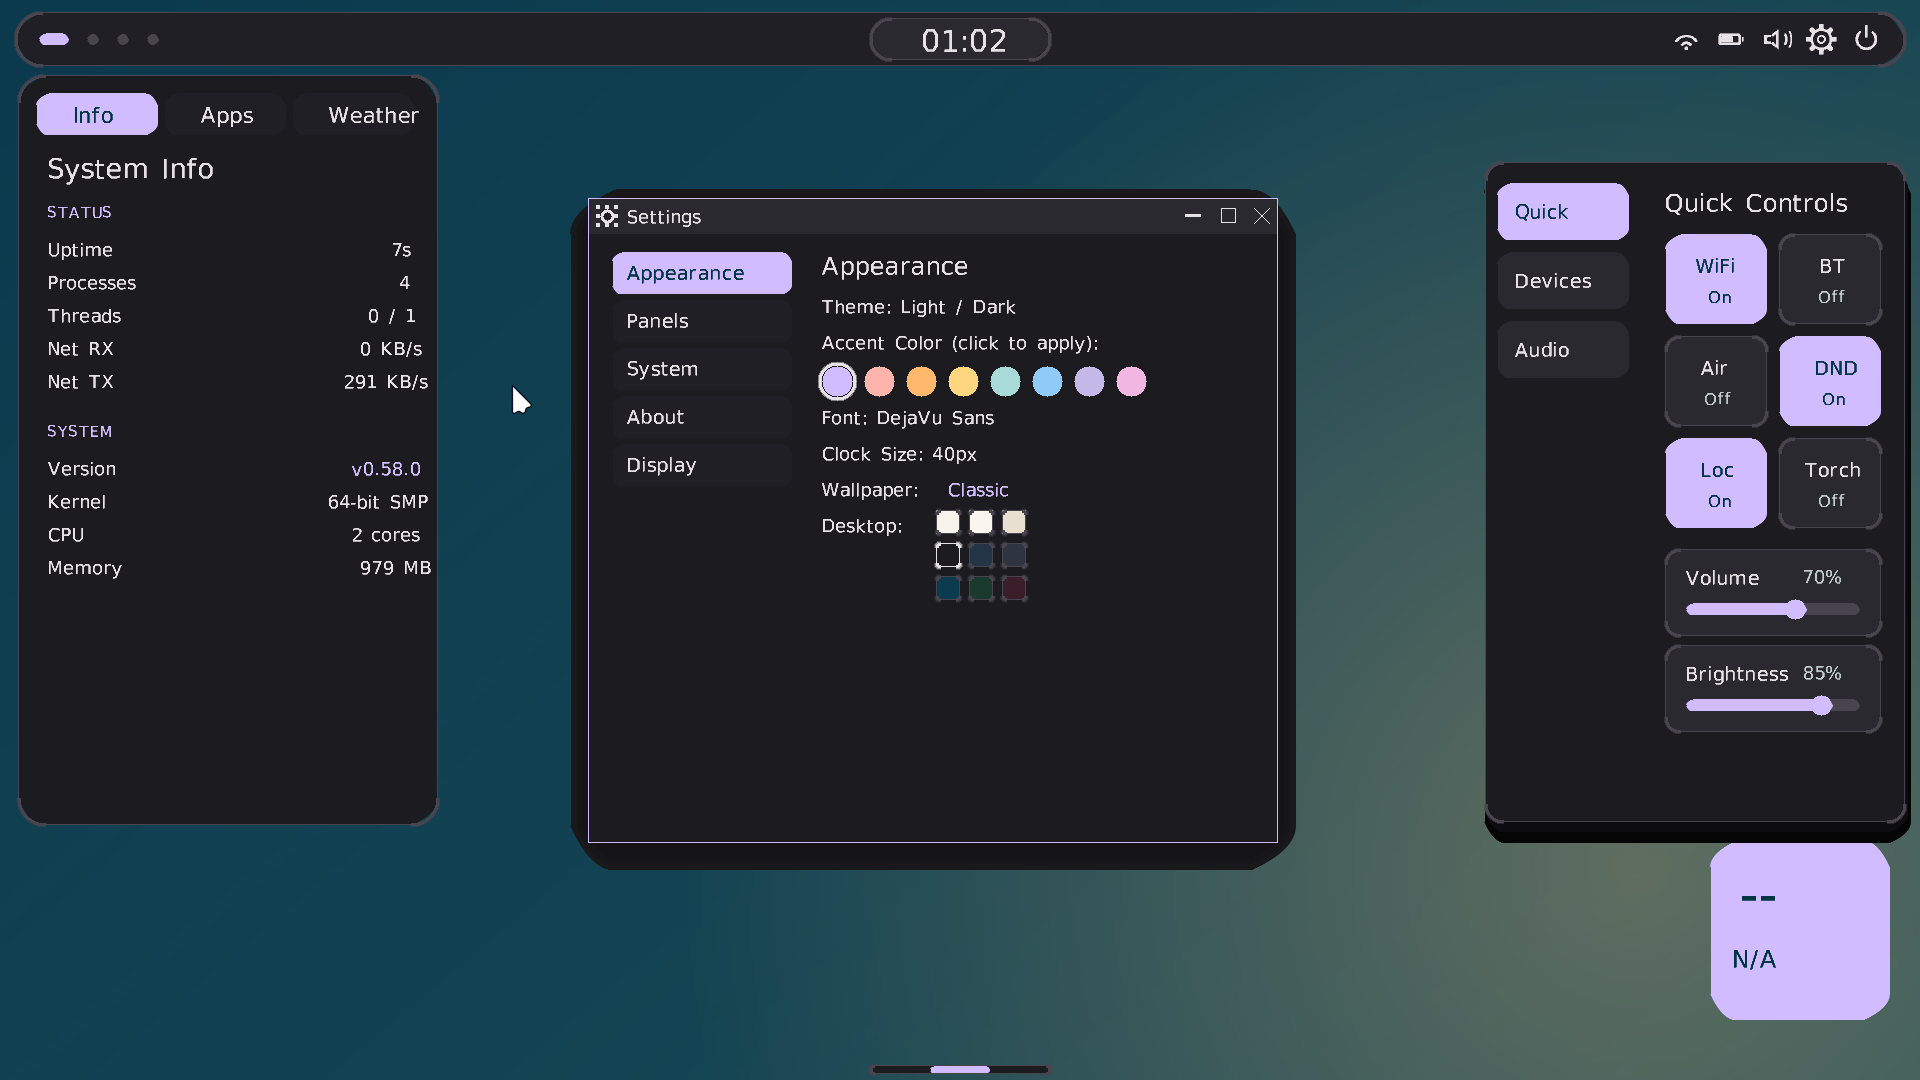
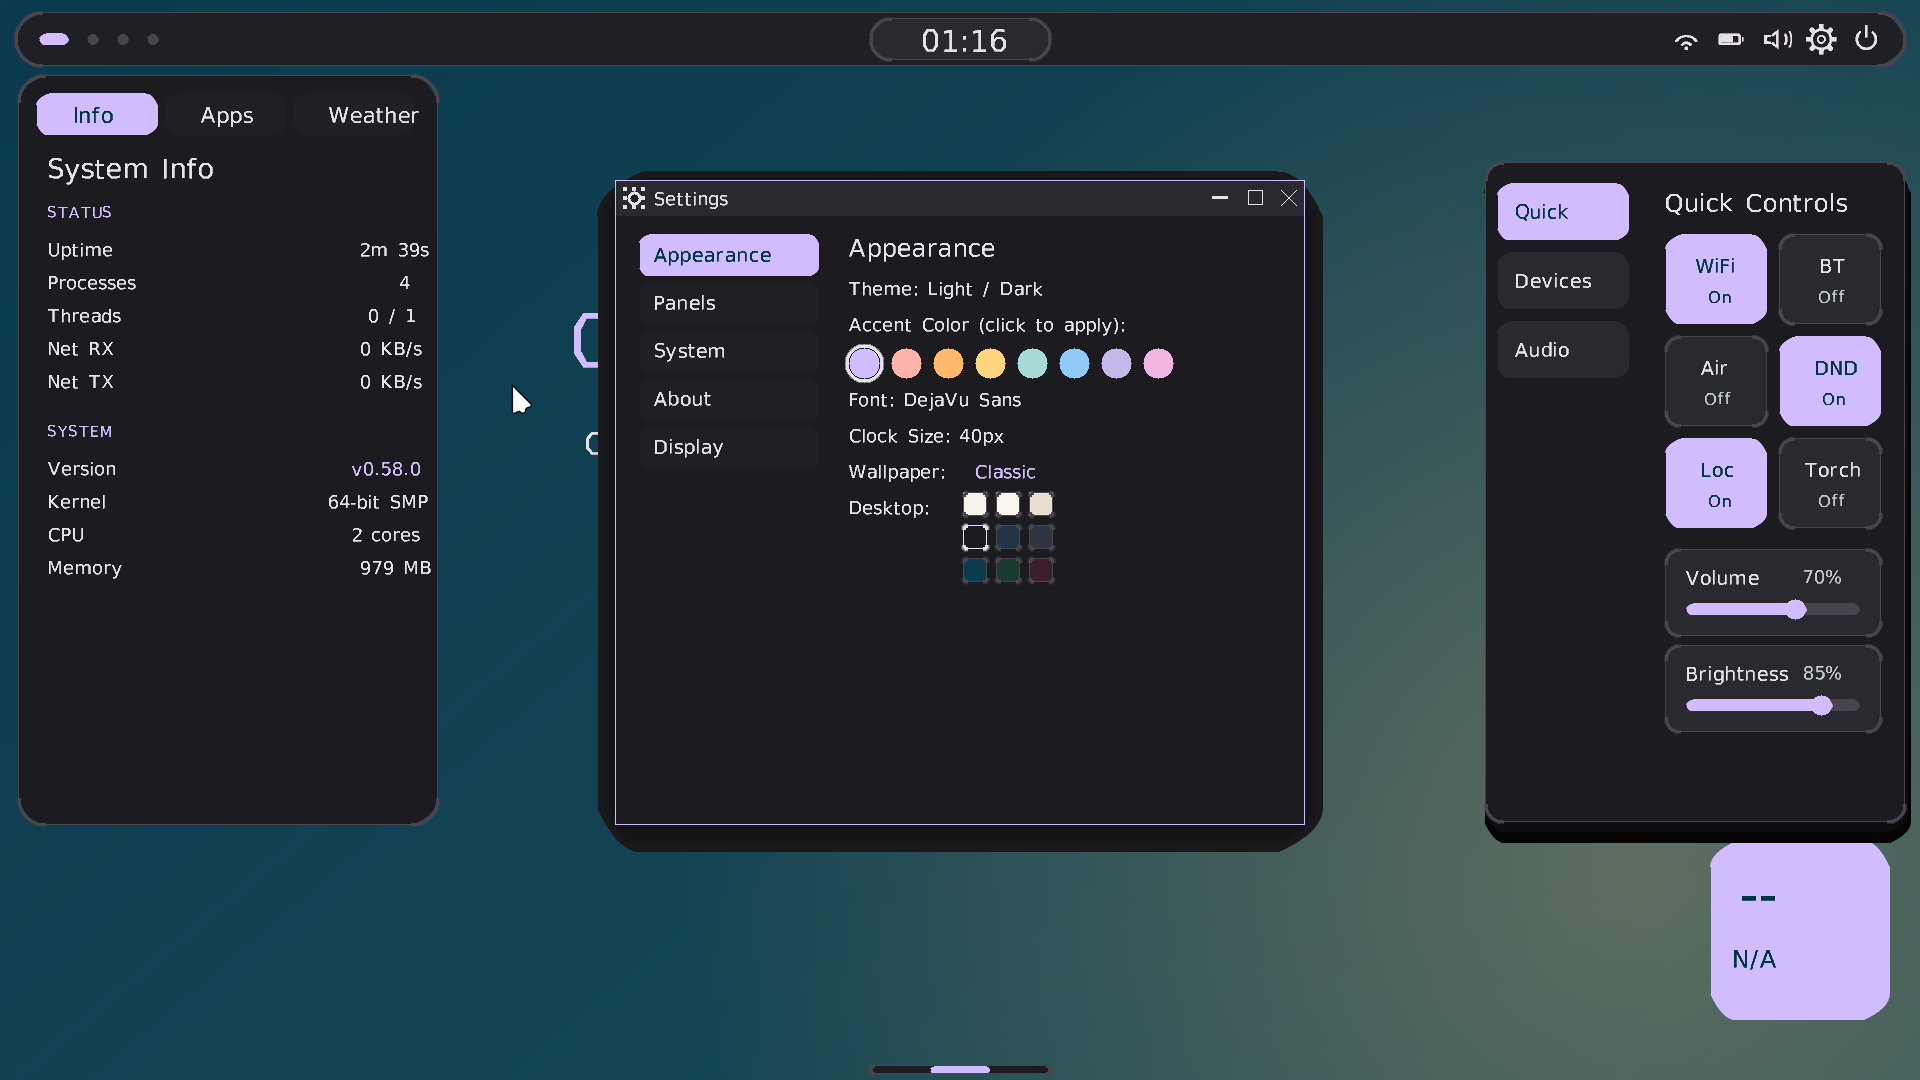
fix(gfx): 修桌面主循环被同步 HTTP 阻塞, 字形缓存扩到整屏
SEC-24 此前误判为 '主循环在 hlt 后停止推进', 实为被同步 HTTP 请求堵住:
- net64_http.c: 连接等待从 5000 轮 x 100 万次空转改为 RTC 3 秒墙钟上限,
  外网不可达时不再把桌面主循环堵住数分钟
- gfx64.c: TTF_CACHE_ITEMS 24 -> 256, 单槽 128x128 -> 64x64, 总占用 1 MB;
  24 槽对整屏上百个 (字符,字号) 组合几乎必然全未命中, 每次重绘都重新光栅化
- desktop64.c: 天气重试 6 次 x 60 帧 -> 3 次 x 300 帧
- OPEN_BUGS: SEC-24 改判并标记已修复, 记录 gdbstub 定位过程
- FIXES_0_58_0.md §1.93: 两处成因与验证数据
- docs/assets/desktop-0.58.0.png: 更新为修复后实机图

验证: 到桌面 46-55s -> 13-14s; Uptime 15s -> 2m39s 连续推进; 2/2 PASS EXC=0;
内核 829,064 B; check_docs warns=0 errors=0

diff --git a/kernel/arch/x86_64/net64_http.c b/kernel/arch/x86_64/net64_http.c
@@ -124,10 +124,16 @@ int http64_get(const char *url, uint8_t *response, int max_response)
 
     /* 等待连接建立 */
     extern void net64_poll(void);  /* V0.13.9: 收包泵 (原缺失导致连接永不建立) */
-    for (int i = 0; i < 5000; i++) {
+    /* V0.58.3: 旧实现是 5000 轮 × 100 万次空转。在 QEMU 的软件 CPU 上单轮就要
+     * 几十毫秒, 外网不可达时会跑满 5000 轮 —— 实测桌面主循环长时间停在
+     * http64_get+421 不前, 时钟与 Uptime 一起冻住(见 §1.93)。改为 RTC 秒级
+     * 3 秒墙钟上限 + 短空转: 连不上最多损失 3 秒, 不会堵死桌面。 */
+    extern uint64_t rtc64_get_timestamp(void);
+    uint64_t ct0 = rtc64_get_timestamp();
+    while (rtc64_get_timestamp() - ct0 < 3) {
         net64_poll();
         if (tcp64_get_state(sock) == TCP_ESTABLISHED) break;
-        for (volatile int dw = 0; dw < 1000000; dw++);  /* ~25ms */
+        for (volatile int dw = 0; dw < 10000; dw++);
     }
     if (tcp64_get_state(sock) != TCP_ESTABLISHED) {
         vga_puts("[HTTP64] Connection timeout\n");

diff --git a/kernel/arch/x86_64/gfx64.c b/kernel/arch/x86_64/gfx64.c
@@ -340,9 +340,13 @@ void gfx64_fill_rect(int x, int y, int w, int h, uint32_t color)
  * V0.13.4: 缓存key升为uint32, 支持CJK码点
  * V0.13.6: 缓存扩容至64并支持锁定槽(桌面大时钟48px字形锁定, 防止环形替换
  *          挤出后 miss 重光栅化带来的时序竞态 -- 间歇性"时钟消失"根因) */
-#define TTF_CACHE_ITEMS 24
-#define TTF_CACHE_W 128
-#define TTF_CACHE_H 128
+/* V0.58.3: 24 槽对一屏上百个 (字符,字号) 组合几乎必然全未命中 —— 缓存等于没有,
+ * 每次重绘都要重新光栅化, 单串文本绘制耗时被放大到数百毫秒级(见 §1.93)。
+ * 扩到 256 槽, 同时把单槽 128x128 收到 64x64: 256*64*64 = 1 MB, 与原来 24 槽
+ * 的 384 KB 同量级, 但命中率覆盖整屏。超宽字形仍由 ttf_canary 兜底不缓存。 */
+#define TTF_CACHE_ITEMS 256
+#define TTF_CACHE_W 64
+#define TTF_CACHE_H 64
 typedef struct {
     uint32_t c;
     uint16_t size;

diff --git a/kernel/arch/x86_64/desktop64.c b/kernel/arch/x86_64/desktop64.c
@@ -164,8 +164,10 @@ void desktop64_run(void)
          * 最多 6 次, 每次间隔 60 帧; 成功后不再请求。 */
         static int wx_tick = 0;
         static int wx_tries = 0;
-        if (wx_tries < 6) {
-            if (++wx_tick >= 60) {
+        /* V0.58.3: 6 次 × 每次最多阻塞数秒 = 启动期累计卡顿近 20 秒。
+         * 降到 3 次、间隔 300 帧, 累计阻塞控制在 10 秒内且分散。 */
+        if (wx_tries < 3) {
+            if (++wx_tick >= 300) {
                 wx_tick = 0;
                 extern int hpdesk_fetch_weather(void);
                 if (hpdesk_fetch_weather()) wx_tries = 6;

diff --git a/docs/status/OPEN_BUGS.md b/docs/status/OPEN_BUGS.md
@@ -255,17 +255,21 @@ source_of_truth: kernel/arch/x86_64/
 FIXES §1.91），睡眠期现在能正常轮转。真正的阻塞式 sleep（`wake_tick` +
 tick 跳过未到期线程）仍未实现，属独立改造。
 
-## SEC-24 桌面主循环在十余轮后停止推进
+## SEC-24 桌面主循环长时间停止推进（已修复，V0.58.3）
 
-- 现象：`desktop64_run()` 的 `while(1)` 实测只推进约 13 轮就停住，画面冻结在
-  最后一次渲染帧。串口探针 `pre-hlt` / `post-hlt` 计数均为 13，之后不再增长。
-- 影响：放在主循环里创建的新窗口（如任务管理器）往往等不到下一次重绘，
-  表现为"`[WM] create Task Manager 780x570` 有日志、画面没有窗口"。
-  QEMU 截图偶有一次能看到（创建后立刻手工 `hpdesk_render()` 且恰好渲染成功）。
-- 已排除：不是 `cli` 遗留导致（`sti; hlt` 后仍复现）。
-- 未定位：`hlt` 之后 PIT/APIC 定时中断是否还进入 IRQ handler。桌面首帧与静态
-  面板（System Info / Quick Controls）正常，说明初次的渲染与初始化没问题。
-- 下一步：单核 `-smp 1 -d int -D /tmp/qemu_int.log` 抓中断轨迹，确认第 14 轮
-  `hlt` 之后 0x20 向量是否还有进入记录；同时核对 `smp_timer_tick()` /
-  `apic64_timer_eoi()` 在 CPL=0 路径上的行为。
-
+- 现象：`desktop64_run()` 的 `while(1)` 只推进十余轮就不再前进，画面冻结，
+  时钟与侧栏 Uptime 一起停住；放在主循环里创建的新窗口永远等不到重绘。
+- **原判断有误**：一度记为"主循环在 `hlt` 后停止推进"并怀疑 cli/EOI 遗留。
+  用 gdbstub 四次采样锁定 RIP 连续停在同一处 —— `http64_get+421`，
+  即**桌面主循环被同步 HTTP 请求阻塞**，与 `hlt`、EOI 无关。
+- 两处成因：
+  1. `net64_http.c` 连接等待是 `5000 轮 × 100 万次空转`。QEMU 软件 CPU 下单轮
+     需数十毫秒，外网不可达时会跑满 5000 轮 —— 主循环被堵住数分钟。
+     → 改为 RTC 秒级 3 秒墙钟上限 + 短空转，连不上最多损失 3 秒。
+  2. `gfx64.c` 的 `TTF_CACHE_ITEMS` 只有 24 槽，而一屏有上百个（字符,字号）
+     组合，缓存几乎全程未命中，每次重绘都要重新光栅化 —— 单串文本绘制被放大到
+     数百毫秒。
+     → 扩到 256 槽，单槽 128×128 收到 64×64（总占用 1 MB）。
+- 附带：天气重试从 6 次×60 帧降到 3 次×300 帧，启动期累计阻塞控制在 10 秒内。
+- 验证：到桌面耗时 46–55 s → **13–14 s**；HOL blocking 消失后 Uptime 连续推进
+  （15 s → 2 m 39 s），时钟逐分前进，通知与网络状态正常渲染。
